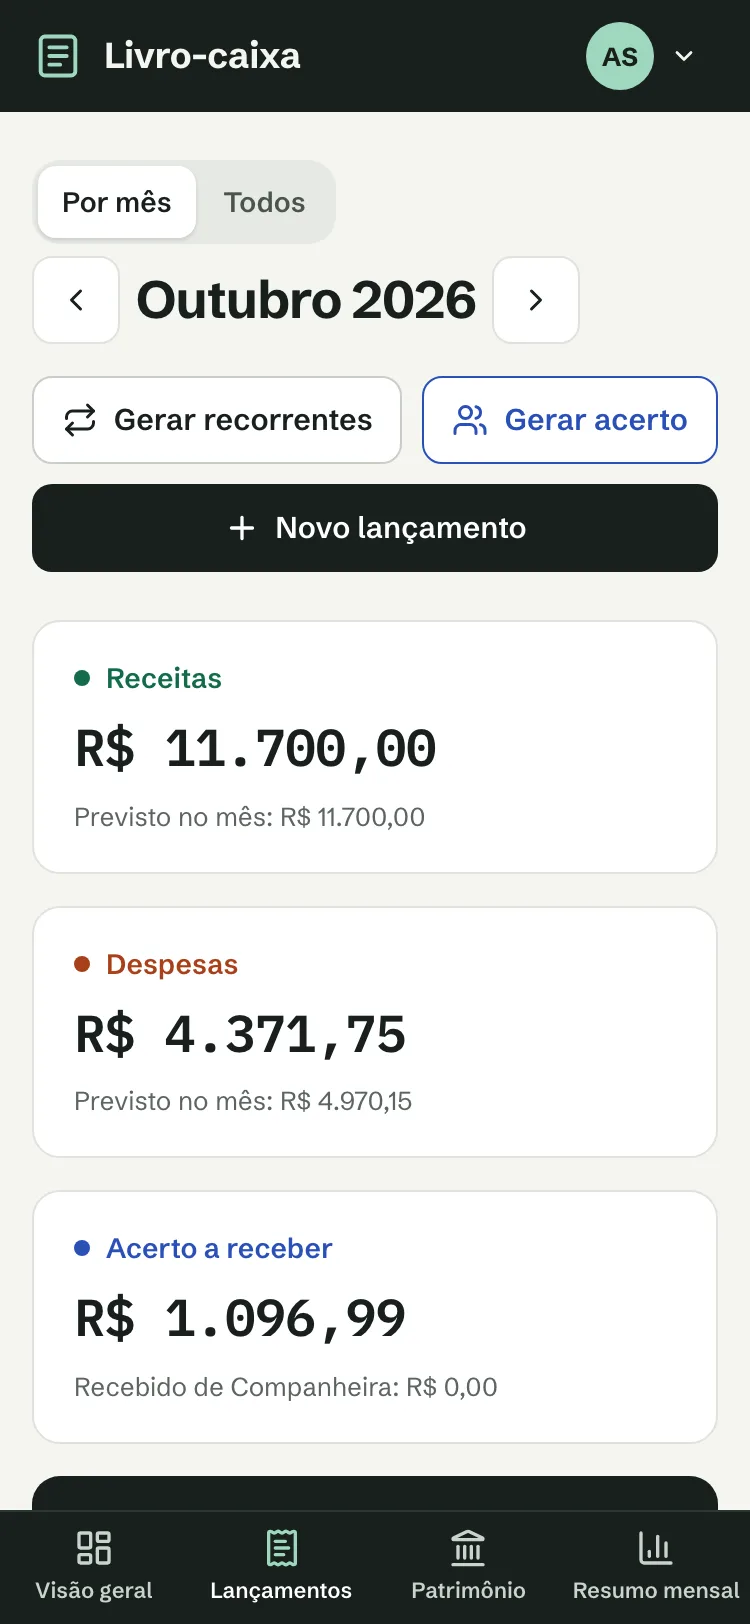
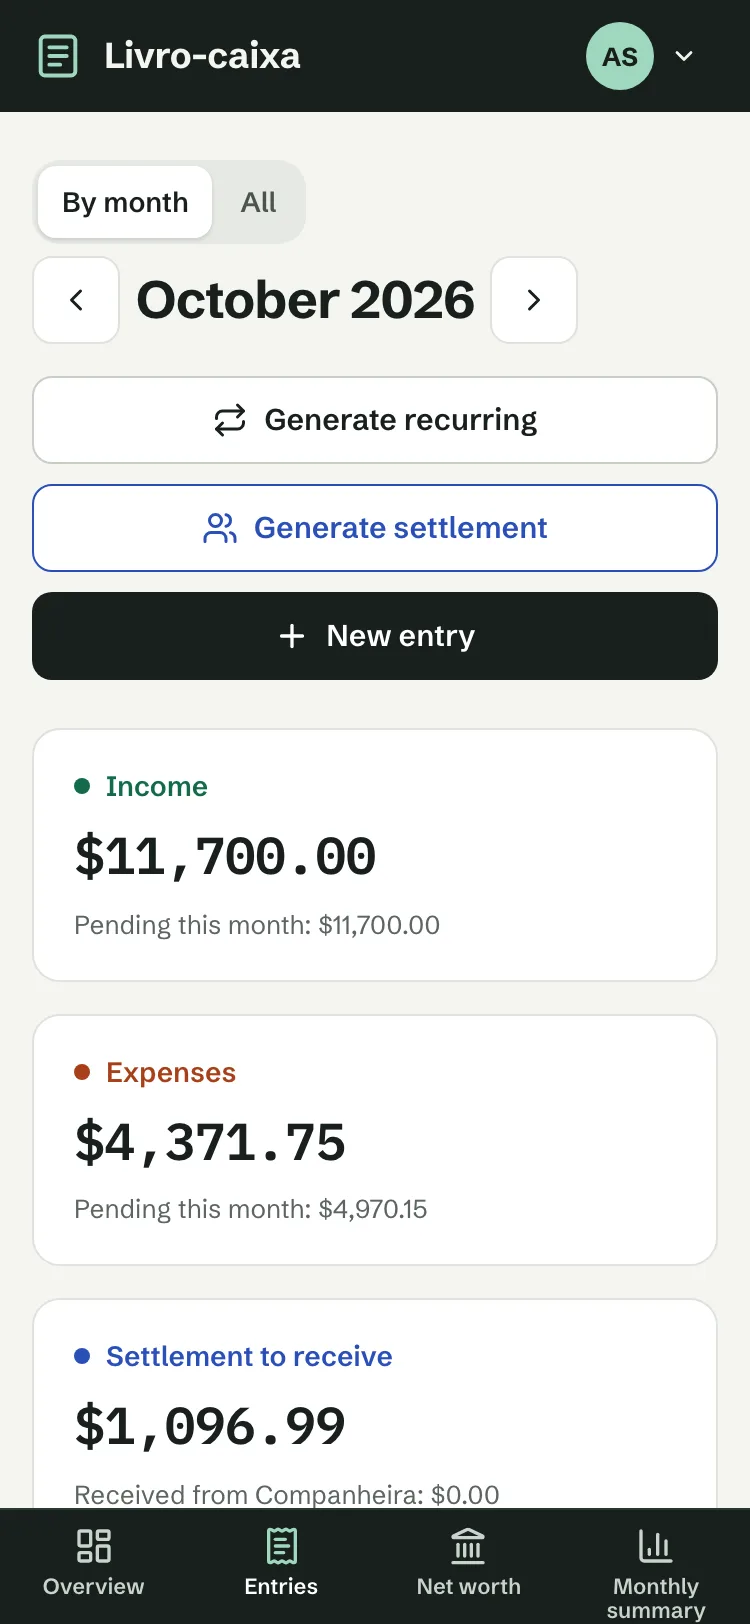
feat(site): show the app in English with dollars and name its screens in English

diff --git a/apps/site/index.html b/apps/site/index.html
@@ -136,12 +136,12 @@
                 src="/screenshots/visao-geral.webp"
                 width="1440"
                 height="900"
-                alt="Visão geral, the dashboard, for October 2026: the month's balance of R$ 7.328,25, a 62,6% savings rate, net spending and the year-to-date total, and, on wide screens, a bar chart of income and expenses for the last 12 months."
+                alt="Overview, the dashboard, for October 2026: the month's balance of $7,328.25, a 62.6% savings rate, net spending and the year-to-date total, and, on wide screens, a bar chart of income and expenses for the last 12 months."
                 fetchpriority="high"
                 class="shot block h-auto w-full"
               />
             </picture>
-            <figcaption class="sr-only">The dashboard (Visão geral) with the demo data.</figcaption>
+            <figcaption class="sr-only">The dashboard (Overview) with the demo data.</figcaption>
           </figure>
         </div>
       </section>
@@ -156,8 +156,9 @@
               What it keeps track of
             </h2>
             <p class="mt-4 text-lg text-muted">
-              The app speaks Brazilian Portuguese and works in reais. Each part below carries its name in the
-              app, so you will recognise it on screen.
+              The app comes in English and Brazilian Portuguese and shows amounts in reais, dollars, euros or
+              pounds; you pick both in Settings and nothing is converted. Each part below carries its name as
+              it appears on screen.
             </p>
           </div>
 
@@ -167,13 +168,12 @@
             >
               <div>
                 <h3 class="text-2xl font-bold">
-                  Lançamentos
-                  <span class="mt-1 block text-base font-medium text-muted">Entries</span>
+                  Entries
+                  <span class="mt-1 block text-base font-medium text-muted">Lançamentos in Portuguese</span>
                 </h3>
                 <p class="mt-4 max-w-[52ch] text-muted">
-                  Every receita (income), despesa (expense) and acerto (settlement) in one book. Each entry is
-                  previsto (pending) until you mark it confirmado, so the month shows both what happened and
-                  what is still due.
+                  Every income, expense and settlement in one book. Each entry is pending until you mark it
+                  confirmed, so the month shows both what happened and what is still due.
                 </p>
                 <ul class="mt-5 grid max-w-[52ch] gap-2.5">
                   <li class="flex gap-3">
@@ -201,7 +201,7 @@
                       aria-hidden="true"
                       class="mt-[0.55em] size-2 shrink-0 rounded-full bg-income"
                     ></span>
-                    <span>Categories are yours to edit in Configurações.</span>
+                    <span>Categories are yours to edit in Settings.</span>
                   </li>
                 </ul>
               </div>
@@ -211,7 +211,7 @@
                 height="900"
                 loading="lazy"
                 decoding="async"
-                alt="Lançamentos for October 2026: tiles for income, expenses, the settlement to receive and the realised balance, then a table of entries with date, description, category, type, split, status and amount, such as Condomínio, − R$ 690,00, split and confirmed."
+                alt="Entries for October 2026: tiles for income, expenses, the settlement to receive and the realised balance, then a table of entries with date, description, category, type, split, status and amount, such as Condomínio, − $690.00, split and confirmed."
                 class="shot h-auto w-full"
               />
             </article>
@@ -225,21 +225,24 @@
                 height="900"
                 loading="lazy"
                 decoding="async"
-                alt="The Acerto de contas dialog for October 2026: six split bills with each total and the partner's half, R$ 1.096,99 to settle, a ready-to-send text message, and buttons to copy it, send it on WhatsApp or register the settlement."
+                alt="The Bill settlement dialog for October 2026: six split bills with each total and the partner's half, $1,096.99 to settle, a ready-to-send text message, and buttons to copy it, send it on WhatsApp or register the settlement."
                 class="shot h-auto w-full lg:order-none"
               />
               <div class="row-start-1 lg:row-start-auto">
                 <h3 class="text-2xl font-bold">
-                  Contas divididas and acerto
-                  <span class="mt-1 block text-base font-medium text-muted">Split bills and settlement</span>
+                  Split bills and settlement
+                  <span class="mt-1 block text-base font-medium text-muted"
+                    >Contas divididas and acerto in Portuguese</span
+                  >
                 </h3>
                 <p class="mt-4 max-w-[52ch] text-muted">
-                  Mark an expense as dividida and it counts toward your partner’s share, at the split you set
-                  (50/50 by default, in steps of 5%). At the end of the month, Gerar acerto lists the split
-                  bills, works out the amount owed and writes a message you can copy or send on WhatsApp.
+                  Mark an expense as split and it counts toward your partner’s share, at the split you set
+                  (50/50 by default, in steps of 5%). At the end of the month, Generate settlement lists the
+                  split bills, works out the amount owed and writes a message you can copy or send on
+                  WhatsApp.
                 </p>
                 <p class="mt-4 max-w-[52ch] text-muted">
-                  When the money arrives, it is recorded as an acerto, not as income, so your earnings stay
+                  When the money arrives, it is recorded as a settlement, not as income, so your earnings stay
                   honest. Your partner needs no account: the summary is made to be shared.
                 </p>
               </div>
@@ -250,14 +253,13 @@
             >
               <div>
                 <h3 class="text-2xl font-bold">
-                  Resumo mensal
-                  <span class="mt-1 block text-base font-medium text-muted">Monthly summary</span>
+                  Monthly summary
+                  <span class="mt-1 block text-base font-medium text-muted">Resumo mensal in Portuguese</span>
                 </h3>
                 <p class="mt-4 max-w-[52ch] text-muted">
                   The year at a glance: income, expenses, settlements and the balance of each month, with a
-                  running total and a chart of the months that came out ahead or behind. Switch between
-                  Realizado (confirmed only) and Com previstos (with pending entries and the expected
-                  settlement).
+                  running total and a chart of the months that came out ahead or behind. Switch between Actual
+                  (confirmed only) and With pending (with pending entries and the expected settlement).
                 </p>
                 <h3 class="mt-10 text-2xl font-bold">
                   Recorrentes
@@ -275,7 +277,7 @@
                 height="900"
                 loading="lazy"
                 decoding="async"
-                alt="Resumo mensal for 2026: yearly totals for income, expenses, average monthly balance and the year-to-date total, a bar chart of each month's balance with July below zero, and the start of the month-by-month table."
+                alt="Monthly summary for 2026: yearly totals for income, expenses, average monthly balance and the year-to-date total, a bar chart of each month's balance with July below zero, and the start of the month-by-month table."
                 class="shot h-auto w-full"
               />
             </article>
@@ -289,18 +291,18 @@
                 height="900"
                 loading="lazy"
                 decoding="async"
-                alt="Patrimônio: a total net worth of R$ 26.685,13 across 16 assets in 9 institutions, a banner saying the October 2026 closing is available, result tiles and a bar chart of net worth at each monthly closing."
+                alt="Net worth: a total of $26,685.13 across 16 assets in 9 institutions, a banner saying the October 2026 closing is available, result tiles and a bar chart of net worth at each monthly closing."
                 class="shot h-auto w-full"
               />
               <div class="row-start-1 lg:row-start-auto">
                 <h3 class="text-2xl font-bold">
-                  Patrimônio
-                  <span class="mt-1 block text-base font-medium text-muted">Net worth</span>
+                  Net worth
+                  <span class="mt-1 block text-base font-medium text-muted">Patrimônio in Portuguese</span>
                 </h3>
                 <p class="mt-4 max-w-[52ch] text-muted">
                   List what you hold across banks and brokers, grouped by class or by institution. Once a
-                  month, the fechamento (closing) records your total and splits its growth into contributions
-                  and returns, so the chart shows how the portfolio moved month by month.
+                  month, the closing records your total and splits its growth into contributions and returns,
+                  so the chart shows how the portfolio moved month by month.
                 </p>
                 <p class="mt-4 max-w-[52ch] text-muted">
                   Prices are typed by hand. If you want, a
@@ -314,13 +316,13 @@
 
             <article class="max-w-3xl">
               <h3 class="text-2xl font-bold">
-                Visão geral
-                <span class="mt-1 block text-base font-medium text-muted">Dashboard</span>
+                Overview
+                <span class="mt-1 block text-base font-medium text-muted">Visão geral in Portuguese</span>
               </h3>
               <p class="mt-4 max-w-[60ch] text-muted">
                 The page you land on after signing in, shown at the top of this one. It compares the month
                 with your 12-month average, breaks spending down by category, lists what is still pending with
-                a Confirmar button for each, and shows how much of the acerto has come in.
+                a Confirm button for each, and shows how much of the settlement has come in.
               </p>
             </article>
           </div>
@@ -455,7 +457,7 @@
               height="1624"
               loading="lazy"
               decoding="async"
-              alt="Lançamentos on a 375-pixel phone screen: the October 2026 month view with buttons to generate recurring entries and the settlement, tiles for income, expenses and the settlement to receive, and a bottom navigation bar."
+              alt="Entries on a 375-pixel phone screen: the October 2026 month view with buttons to generate recurring entries and the settlement, tiles for income, expenses and the settlement to receive, and a bottom navigation bar."
               class="shot h-auto w-full"
             />
             <figcaption class="mt-4 text-sm text-muted">
@@ -710,8 +712,8 @@ bun run seed:demo</code></pre>
             </ol>
             <p class="mt-5 max-w-[56ch] text-on-dark-muted">
               Work test first, one branch and one pull request per change, with Conventional Commits in
-              English. The UI copy stays in Brazilian Portuguese, word for word from the design. The
-              contributing guide has the rest.
+              English. Brazilian Portuguese is the source copy, word for word from the design; English is a
+              translation that lives in the catalog. The contributing guide has the rest.
             </p>
           </div>
         </div>

diff --git a/apps/site/scripts/capture-screenshots.ts b/apps/site/scripts/capture-screenshots.ts
@@ -1,7 +1,7 @@
 import { expect, test, type Page } from '@playwright/test';
 import { mkdirSync, writeFileSync } from 'node:fs';
 import { resolve } from 'node:path';
-import { signIn } from '../../../e2e/helpers';
+import { E2E_ADMIN } from '../../../playwright.config';
 
 const OUTPUT_DIR = resolve(import.meta.dirname, '../public/screenshots');
 // The demo seed runs from Nov 2025 to Oct 2026. On the 26th, October has open items and its closing is due.
@@ -30,6 +30,20 @@ async function toWebp(page: Page, png: Buffer): Promise<Buffer> {
   return Buffer.from(dataUrl.split(',')[1] ?? '', 'base64');
 }
 
+/**
+ * Signs in through the API, since the sign-in page speaks the instance's language and a second
+ * capture in the same run would find it in English. Then sets the instance to English with
+ * dollars, which is how the site shows the app.
+ */
+async function signInInEnglishWithDollars(page: Page) {
+  const login = await page.request.post('/api/auth/login', {
+    data: { email: E2E_ADMIN.email, password: E2E_ADMIN.password, remember: false },
+  });
+  expect(login.ok()).toBe(true);
+  const settings = await page.request.put('/api/settings', { data: { language: 'en', currency: 'USD' } });
+  expect(settings.ok()).toBe(true);
+}
+
 async function settle(page: Page, heading: string | RegExp) {
   await expect(page.getByRole('heading', { level: 1, name: heading })).toBeVisible();
   await page.evaluate(() => document.fonts.ready);
@@ -55,13 +69,14 @@ test.beforeEach(async ({ page }) => {
 
 test('desktop screens at 1440px', async ({ page }) => {
   await page.setViewportSize(DESKTOP);
-  await signIn(page);
+  await signInInEnglishWithDollars(page);
+  await page.goto('/visao-geral');
 
-  await settle(page, 'Outubro 2026');
+  await settle(page, 'October 2026');
   await save(page, 'visao-geral');
   // Link previews crop to 1.91:1, so the app is laid out at that size rather than cropped.
   await page.setViewportSize(OPEN_GRAPH);
-  await settle(page, 'Outubro 2026');
+  await settle(page, 'October 2026');
   await snapshot(page, {
     path: resolve(OUTPUT_DIR, '../og-image.jpg'),
     type: 'jpeg',
@@ -70,11 +85,11 @@ test('desktop screens at 1440px', async ({ page }) => {
   await page.setViewportSize(DESKTOP);
 
   await page.goto('/lancamentos');
-  await settle(page, 'Outubro 2026');
+  await settle(page, 'October 2026');
   await save(page, 'lancamentos');
 
-  await page.getByRole('button', { name: 'Gerar acerto' }).click();
-  await expect(page.getByRole('dialog', { name: 'Acerto de contas' })).toBeVisible();
+  await page.getByRole('button', { name: 'Generate settlement' }).click();
+  await expect(page.getByRole('dialog', { name: 'Bill settlement' })).toBeVisible();
   await page.evaluate(() => document.fonts.ready);
   await save(page, 'acerto');
   await page.keyboard.press('Escape');
@@ -84,7 +99,7 @@ test('desktop screens at 1440px', async ({ page }) => {
   await save(page, 'resumo');
 
   await page.goto('/patrimonio');
-  await expect(page.getByRole('heading', { name: 'Evolução mês a mês' })).toBeVisible();
+  await expect(page.getByRole('heading', { name: 'Month by month' })).toBeVisible();
   await page.evaluate(() => document.fonts.ready);
   await page.waitForLoadState('networkidle');
   await save(page, 'patrimonio');
@@ -95,11 +110,12 @@ test.describe('phone', () => {
   test.use({ viewport: PHONE, deviceScaleFactor: 2 });
 
   test('phone screens at 375px', async ({ page }) => {
-    await signIn(page);
-    await settle(page, 'Outubro 2026');
+    await signInInEnglishWithDollars(page);
+    await page.goto('/visao-geral');
+    await settle(page, 'October 2026');
     await save(page, 'visao-geral-phone');
     await page.goto('/lancamentos');
-    await settle(page, 'Outubro 2026');
+    await settle(page, 'October 2026');
     await save(page, 'lancamentos-phone');
   });
 });

diff --git a/apps/web/src/shared/layout/AppShell.tsx b/apps/web/src/shared/layout/AppShell.tsx
@@ -43,8 +43,8 @@ export function AppShell() {
                 to={to}
                 className={({ isActive }) =>
                   cn(
-                    'group min-h-(--phone-nav-height) flex-1 flex-col items-center justify-center gap-1 text-[11px] font-semibold no-underline',
-                    'md:min-h-11 md:flex-none md:flex-row md:rounded-[10px] md:px-4 md:text-[15px]',
+                    'group min-h-(--phone-nav-height) flex-1 flex-col items-center justify-start gap-1 px-0.5 pt-2 text-center text-[11px] leading-[1.15] font-semibold no-underline',
+                    'md:min-h-11 md:flex-none md:flex-row md:justify-center md:rounded-[10px] md:px-4 md:pt-0 md:text-[15px] md:leading-normal',
                     onPhoneBar ? 'flex' : 'hidden md:flex',
                     isActive ? 'text-white md:bg-header-active' : 'text-on-dark-muted hover:text-white',
                   )
